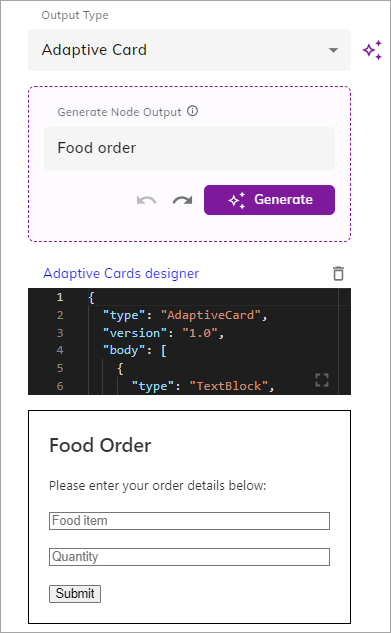
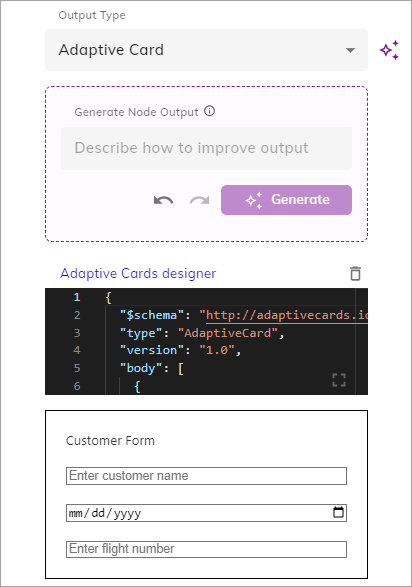
Improve the Adaptive Card result

diff --git a/docs/en/docs/ai/flow-nodes/message/say.md b/docs/en/docs/ai/flow-nodes/message/say.md
@@ -197,7 +197,7 @@ The Video Output Type allows you to configure a video output. It takes a URL as 
 
 ### Adaptive Card
 
-[![Version badge](https://img.shields.io/badge/Updated in-v4.55-blue.svg)](../../../release-notes/4.55.md)
+[![Version badge](https://img.shields.io/badge/Updated in-v4.56-blue.svg)](../../../release-notes/4.56.md)
 
 The Adaptive Card Type allows you to configure an adaptive card output. Adaptive Cards offer customization options, support for rich media (images, video, and audio), ease of use with a simple JSON schema, and the ability to create dynamic content for users to match their specific needs and branding. 
 
@@ -281,12 +281,14 @@ To activate this feature, follow these steps:
 
 1. Select the **Adaptive Card** output type.
 2. On the right side of the **Output type** list, click ![beta](../../../assets/icons/beta.svg).
-3. In the **Generate Node Output** section, specify a task for the Generative AI model.
-4. Click **Generate**.
+3. In the **Generate Node Output** section, specify a task for the Generative AI model. For example, `Create a form with a customer name field and a date input field`.
+4. Click **Generate**. The adaptive card will be generated under the **Adaptive Cards designer** section.
+5. Improve the existing result by creating a new task in the **Generate Node Output** section. For example, `Add a flight number field`.
+6. Click **Generate**. The existing adaptive card will be updated.
 
 To navigate between your inputs, use ![back arrow](../../../assets/icons/back-arrow.svg) ![beta](../../../assets/icons/next-arrow.svg).
 
-To delete the generated result, click ![recycle bin](../../../assets/icons/recycle-bin.svg).
+To replace the current Adaptive Card with a new one, click ![recycle bin](../../../assets/icons/recycle-bin.svg).
 
 <figure>
   <img class="image-center" src="{{config.site_url}}ai/flow-nodes/images/say/adaptive-card-type-generative-ai.png" width="80%" />
@@ -296,38 +298,33 @@ To delete the generated result, click ![recycle bin](../../../assets/icons/recyc
 
     ```json
     {
+      "$schema": "http://adaptivecards.io/schemas/adaptive-card.json",
       "type": "AdaptiveCard",
       "version": "1.0",
       "body": [
         {
           "type": "TextBlock",
-          "text": "Food Order",
-          "size": "large",
-          "weight": "bolder"
-        },
-        {
-          "type": "TextBlock",
-          "text": "Please enter your order details below:"
+          "text": "Customer Form"
         },
         {
           "type": "Input.Text",
-          "placeholder": "Food item",
-          "id": "food_item"
+          "id": "customerName",
+          "placeholder": "Enter customer name"
         },
         {
-          "type": "Input.Number",
-          "placeholder": "Quantity",
-          "id": "quantity"
-        }
-      ],
-      "actions": [
+          "type": "Input.Date",
+          "id": "dateInput",
+          "placeholder": "Enter date"
+        },
         {
-          "type": "Action.Submit",
-          "title": "Submit"
+          "type": "Input.Text",
+          "id": "flightNumber",
+          "placeholder": "Enter flight number"
         }
       ]
     }
     ```
+
 ## Alexa
 <div class="divider"></div>
 
